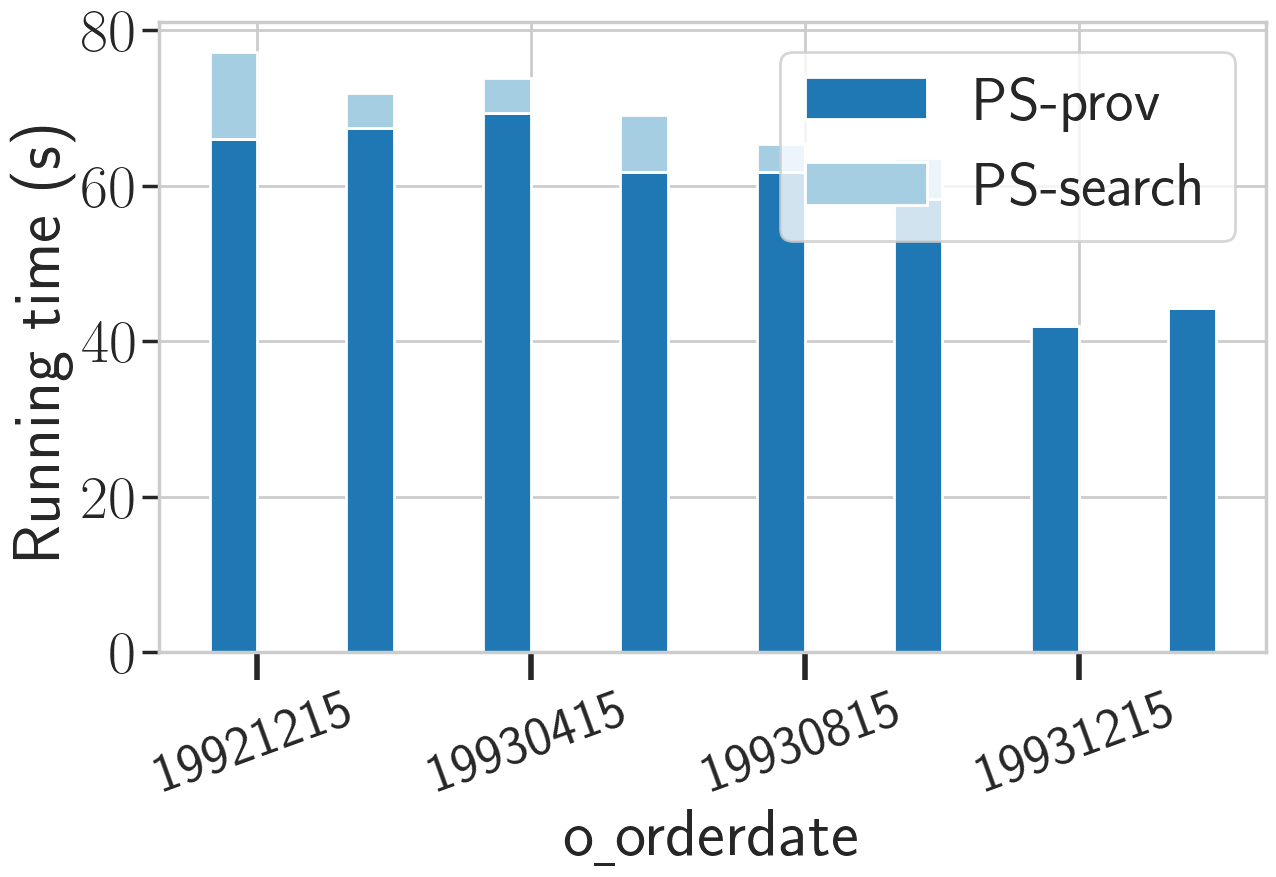
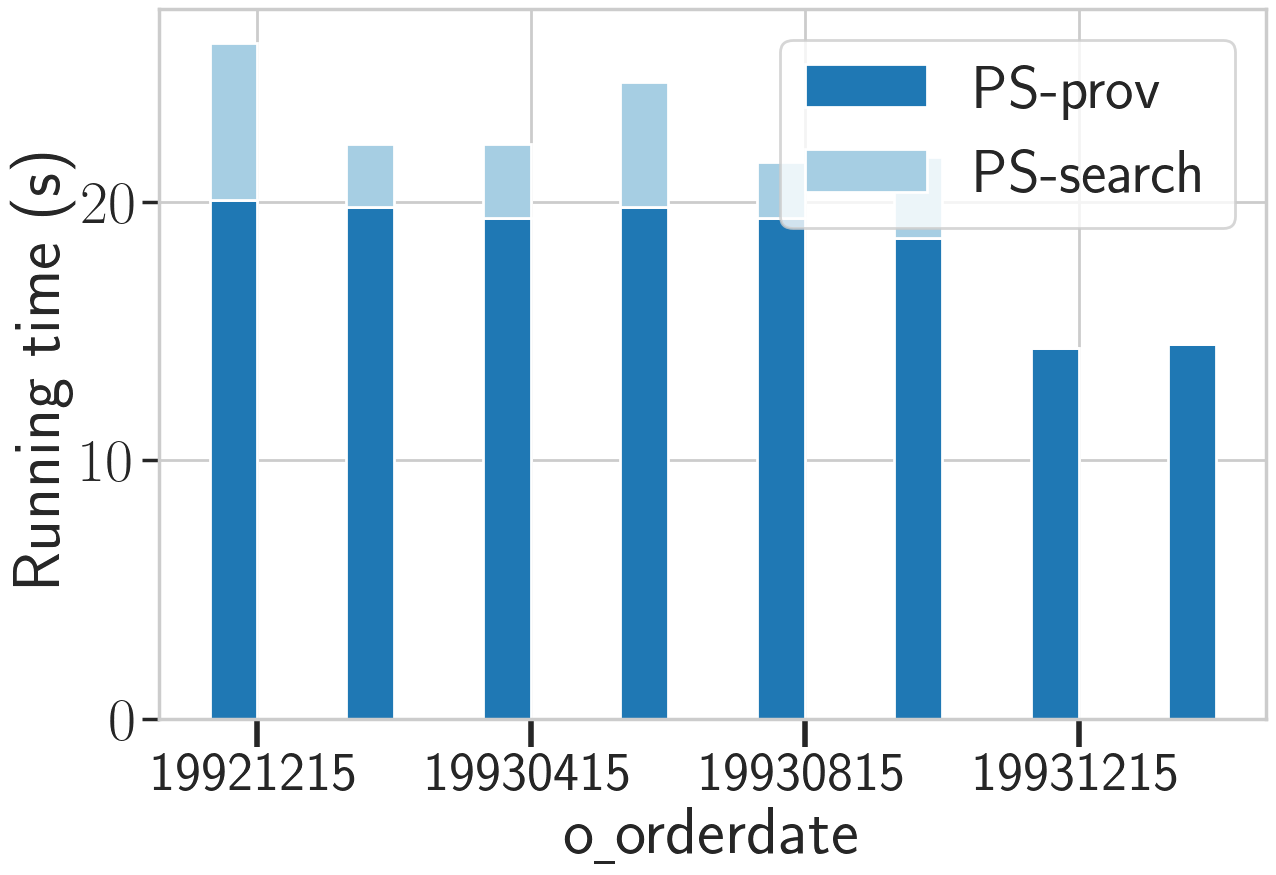
tpch 1G query selectivity q10 contract

diff --git a/Experiment/TPCH/1G/query_selectivity/q10_contract2/fig.py b/Experiment/TPCH/1G/query_selectivity/q10_contract2/fig.py
@@ -82,7 +82,7 @@ def run(query, size, constraint):
     #         color=color[3], label=label[3])
 
 
-    plt.xticks(np.arange(0, 8, 2) + bar_width/2, x_list, rotation=20, fontsize=40)
+    plt.xticks(np.arange(0, 8, 2) + bar_width/2, x_list, rotation=0, fontsize=40)
 
     plt.xlabel(r'o\underline{ }orderdate')
     plt.ylabel('Running time (s)')
